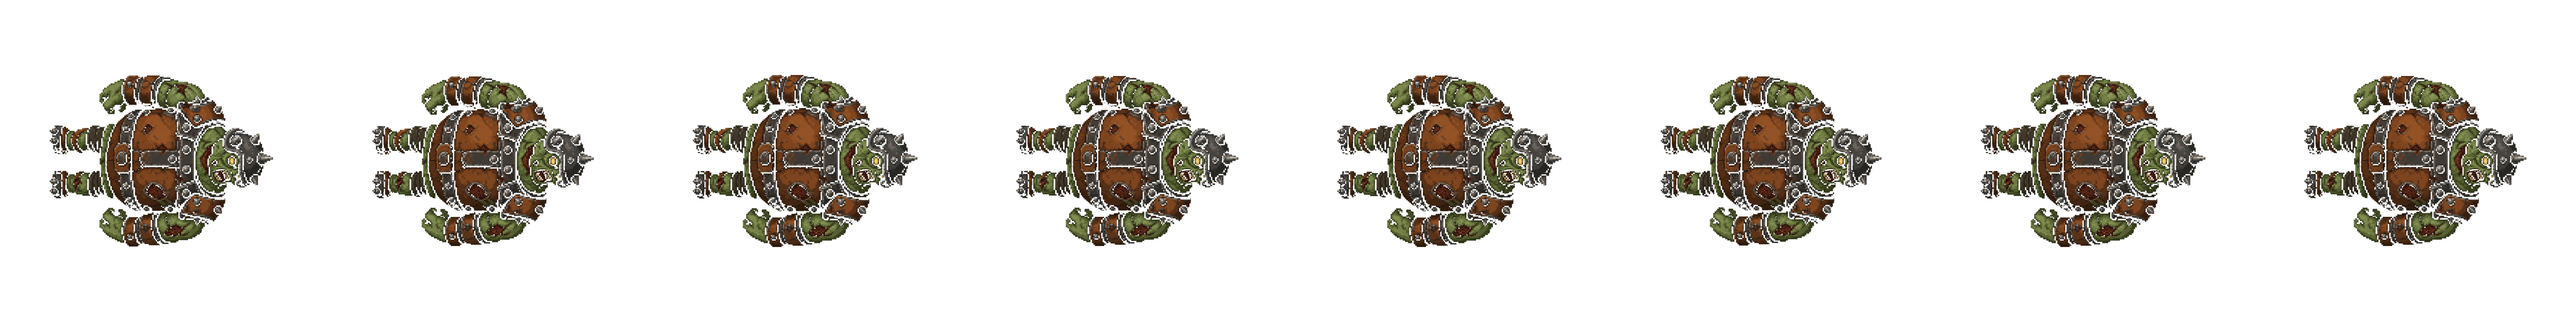
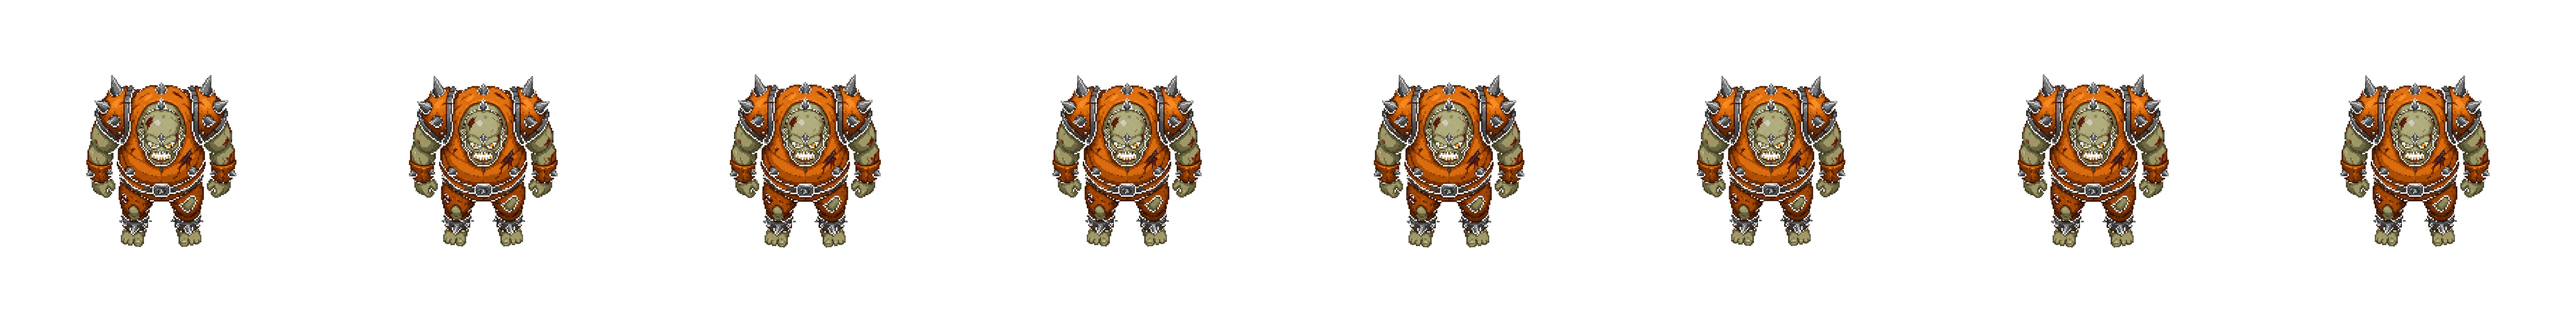
Redraw all zombie sprites standing upright for correct rotation toward the player.

Changed region(s): [[0.0, 0.2188, 1.0, 0.7812]]

diff --git a/public/game.js b/public/game.js
@@ -159,7 +159,7 @@ const WAVE_EVENTS = [
 
 
 
-const SPRITE_VERSION = 32;
+const SPRITE_VERSION = 33;
 
 function loadSpriteSheet(relativePath, frameCount, frameWidth, frameHeight, meta = {}) {
   const sheet = { img: new Image(), frameCount, frameWidth, frameHeight, ready: false, ...meta };
@@ -287,6 +287,7 @@ const zombieSprites = {
 };
 
 const ZOMBIE_VARIANT_FRAME_COUNT = 8;
+const ZOMBIE_VARIANT_FACING_OFFSET = -Math.PI / 2;
 
 const ZOMBIE_VARIANT_META = {
   normal: {
@@ -379,8 +380,8 @@ function getZombieDrawMotion(z) {
 
   return {
     frame: moving ? z.animFrame || 0 : 0,
-    cyOffset: z.size * 0.18,
-    angle: z.facingAngle || 0,
+    cyOffset: z.size * 0.12,
+    angle: (z.facingAngle || 0) + ZOMBIE_VARIANT_FACING_OFFSET,
     squashX: 1,
     drawSize,
     shadowY: z.y + z.size * 0.94,

diff --git a/public/index.html b/public/index.html
@@ -5284,7 +5284,7 @@ TikTok @hulklives
 </div>
 
 <script src="game-pro.js?v=3"></script>
-<script src="game.js?v=211"></script>
+<script src="game.js?v=212"></script>
 <script src="chat.js?v=2"></script>
 <script src="daily-challenges.js?v=2"></script>
 <script src="friends.js?v=5"></script>
